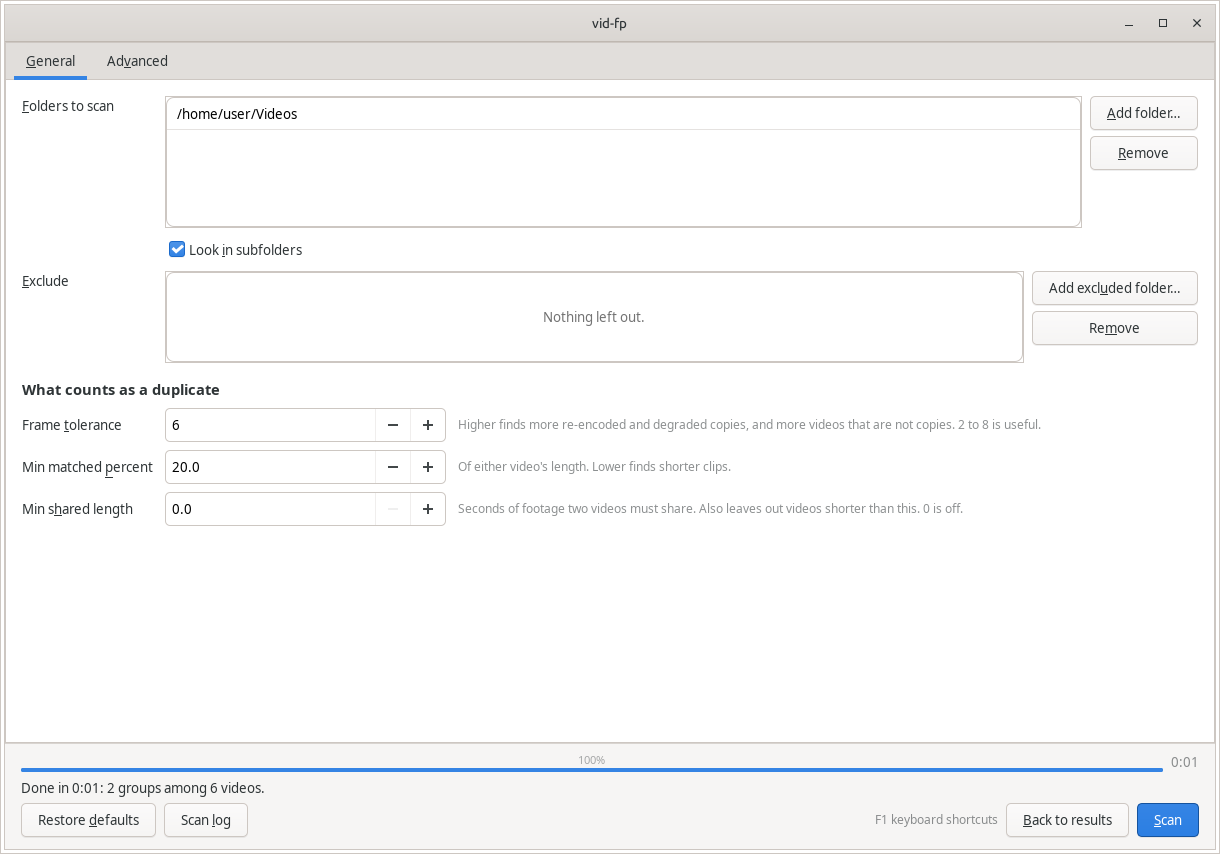
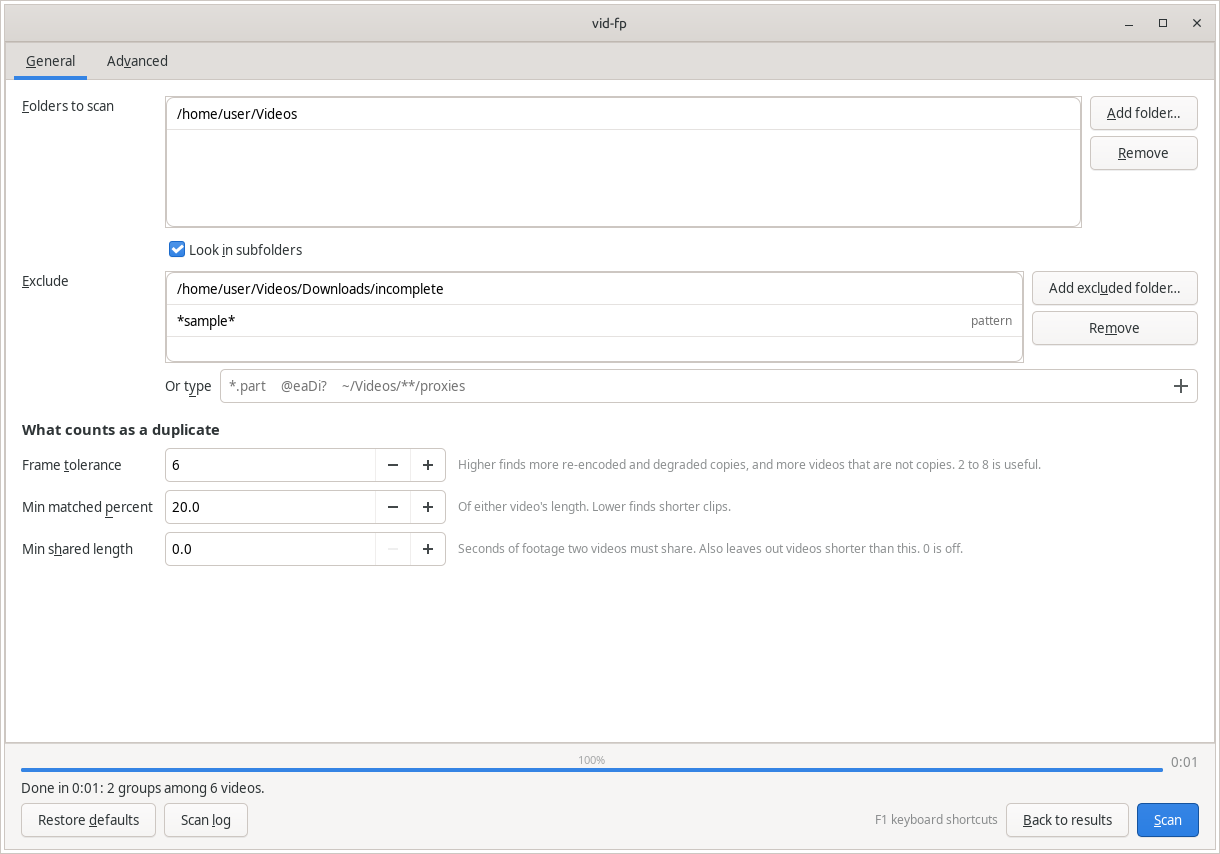
Show the scan settings in the README with the new options
setup.png is retaken with an excluded folder, a typed pattern and the
"Or type" entry; advanced.png is new and shows "Include hidden folders"
and "Use a cache". Both sit in the Desktop app section beside a line on
what they do.

Claude-Session: https://claude.ai/code/session_01E7Sv7e7vUWCJircR6sYPth

diff --git a/README.md b/README.md
@@ -168,6 +168,15 @@ generates both itself with `vid-fp --completions bash` and `vid-fp --man`.
 Trash. Folders named on its command line are the ones to scan
 (`vid-fp-gui ~/Videos`).
 
+<p>
+<img src="flatpak/screenshots/setup.png" width="49%" alt="The scan settings: a folder to scan, an excluded folder and a typed pattern, and the duplicate thresholds">
+<img src="flatpak/screenshots/advanced.png" width="49%" alt="The advanced settings: which files to scan, hidden folders, the report and the cache">
+</p>
+
+- *Exclude* takes folders, or a name pattern or path typed in (`*.part`,
+  `~/Videos/**/proxies`). Hidden folders are left out unless *Include hidden
+  folders* is on, and with *Use a cache* off nothing is kept between scans.
+
 ![Matched frames between a clip and the film it was cut from](flatpak/screenshots/compare.png)
 
 - Each group lists its videos with a thumbnail, their figures, what they matched
